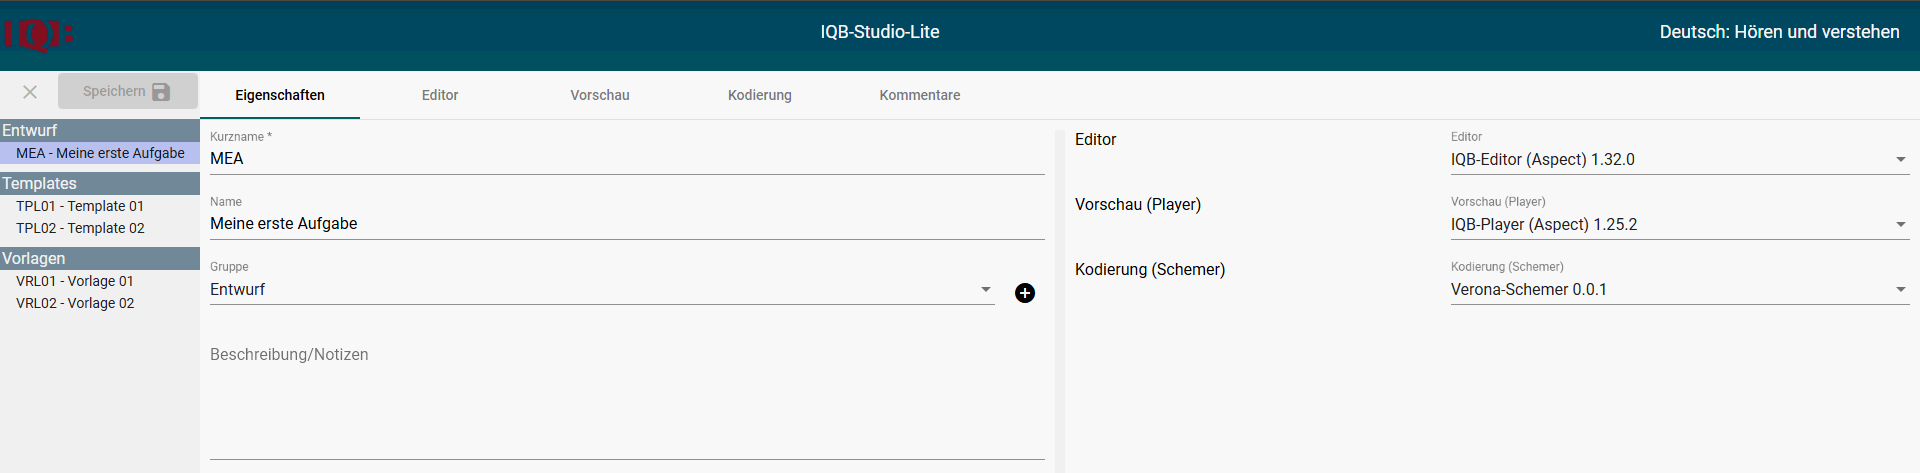
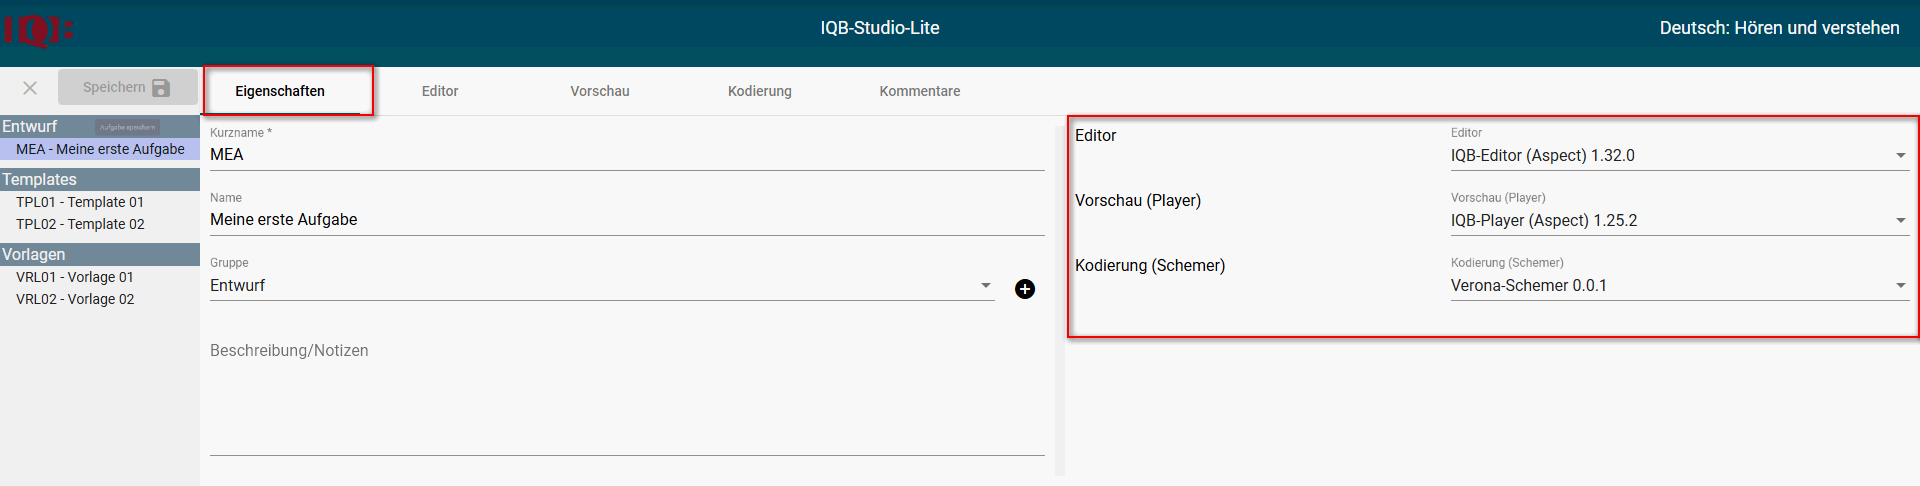
xxx

diff --git a/Wiki_QuellFiles_ab_TS 2.0/Schnelleinstieg.md b/Wiki_QuellFiles_ab_TS 2.0/Schnelleinstieg.md
@@ -141,7 +141,7 @@ Bevor Sie mit dem Aufgabentwurf starten, müssen Sie festlegen mit welchem Edito
 
 Ist der Editor ausgewählt, muss auch ein zum Editor passender Player gewählt werden. Der Player gibt die Aufgabe mit Ihren Aufgabenelementen dann sowohl in der Vorschau als auch später bei der Testdurchführung im **Testcenter** wieder.
 
-![TS_Editorwahl](https://github.com/iqb-berlin/iqb-berlin.github.io/blob/master/assets/TS_Editorwahl_01.png)
+![TS_Editorwahl](https://github.com/iqb-berlin/iqb-berlin.github.io/blob/master/assets/TS_Editorwahl_02.png)
 
 
  Player und Editor werden in verschieden Versionständen angeboten. Wählen Sie immer die aktuellste Version.
